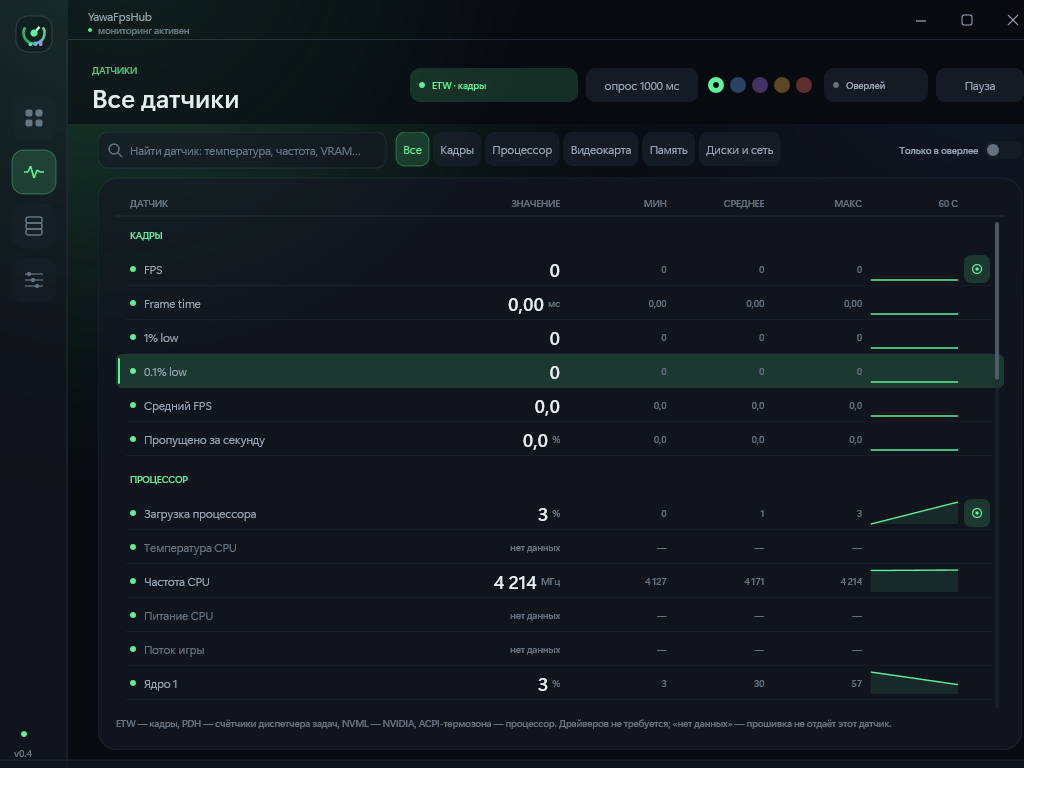
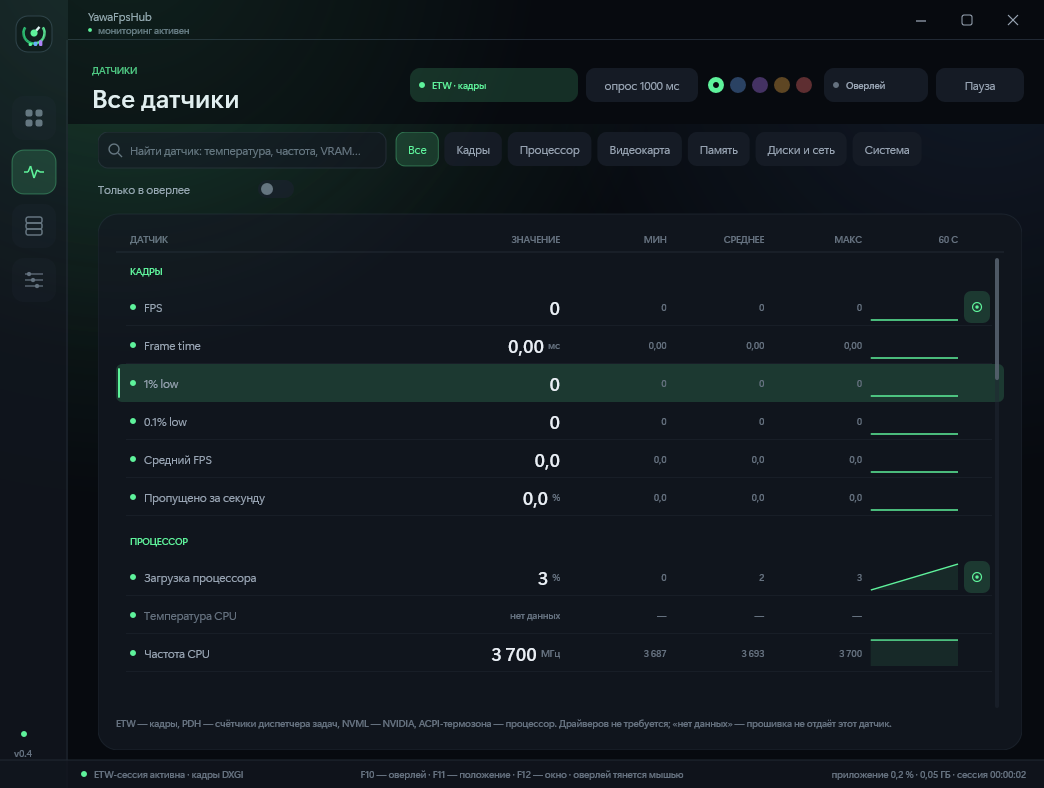
README: перетаскивание оверлея, живые данные, снимки узкого окна

diff --git a/README.md b/README.md
@@ -25,7 +25,8 @@
 ![Обзор](docs/screenshots/dashboard.png)
 
 Остальные экраны — `docs/screenshots/sensors.png`, `docs/screenshots/overlay.png`,
-`docs/screenshots/settings.png`.
+`docs/screenshots/settings.png`. Снимки узкого окна (`*-compact.png`) проверяют, что при
+сжатии окна ничего не наезжает. Пары «демо | приложение» — в `docs/ui-compare/`.
 
 Оверлей — настоящее layered-окно поверх игры, пять стилей, четыре позиции:
 
@@ -79,12 +80,16 @@ cmake --build build --config Release
 ### Управление
 
 - окно, трей и иконка в области уведомлений — меню с оверлеем, позицией и выходом;
+- оверлей перетаскивается обычным нажатием левой кнопкой прямо по нему, правый клик по
+  оверлею возвращает окно приложения; Ctrl больше не нужен;
+- данные в оверлей приходят по тику сборщика, независимо от мыши: цифры обновляются сами;
 - `F10` — показать или скрыть оверлей, `F11` — следующая позиция, `F12` — свернуть окно в трей;
 - «Пауза» в шапке останавливает опрос счётчиков, «Оверлей» включает наложение, кружочки
   справа переключают акцент интерфейса;
 - `YawaFpsHub.exe --smoke` — самопроверка: окно живёт 8 секунд, затем закрывается само
   (`--smoke=22` задаёт своё время, `--overlay` сразу показывает наложение);
 - `--view=dashboard|sensors|overlay|settings` — стартовый экран (используется в CI для скриншотов);
+- `--size=1280x800` — размер окна, `--scroll=640` — стартовая прокрутка (снимки CI);
 - `--overlay-shots=<папка>` — сохраняет PNG всех пяти стилей оверлея (диагностика и демо).
 
 ## Структура
